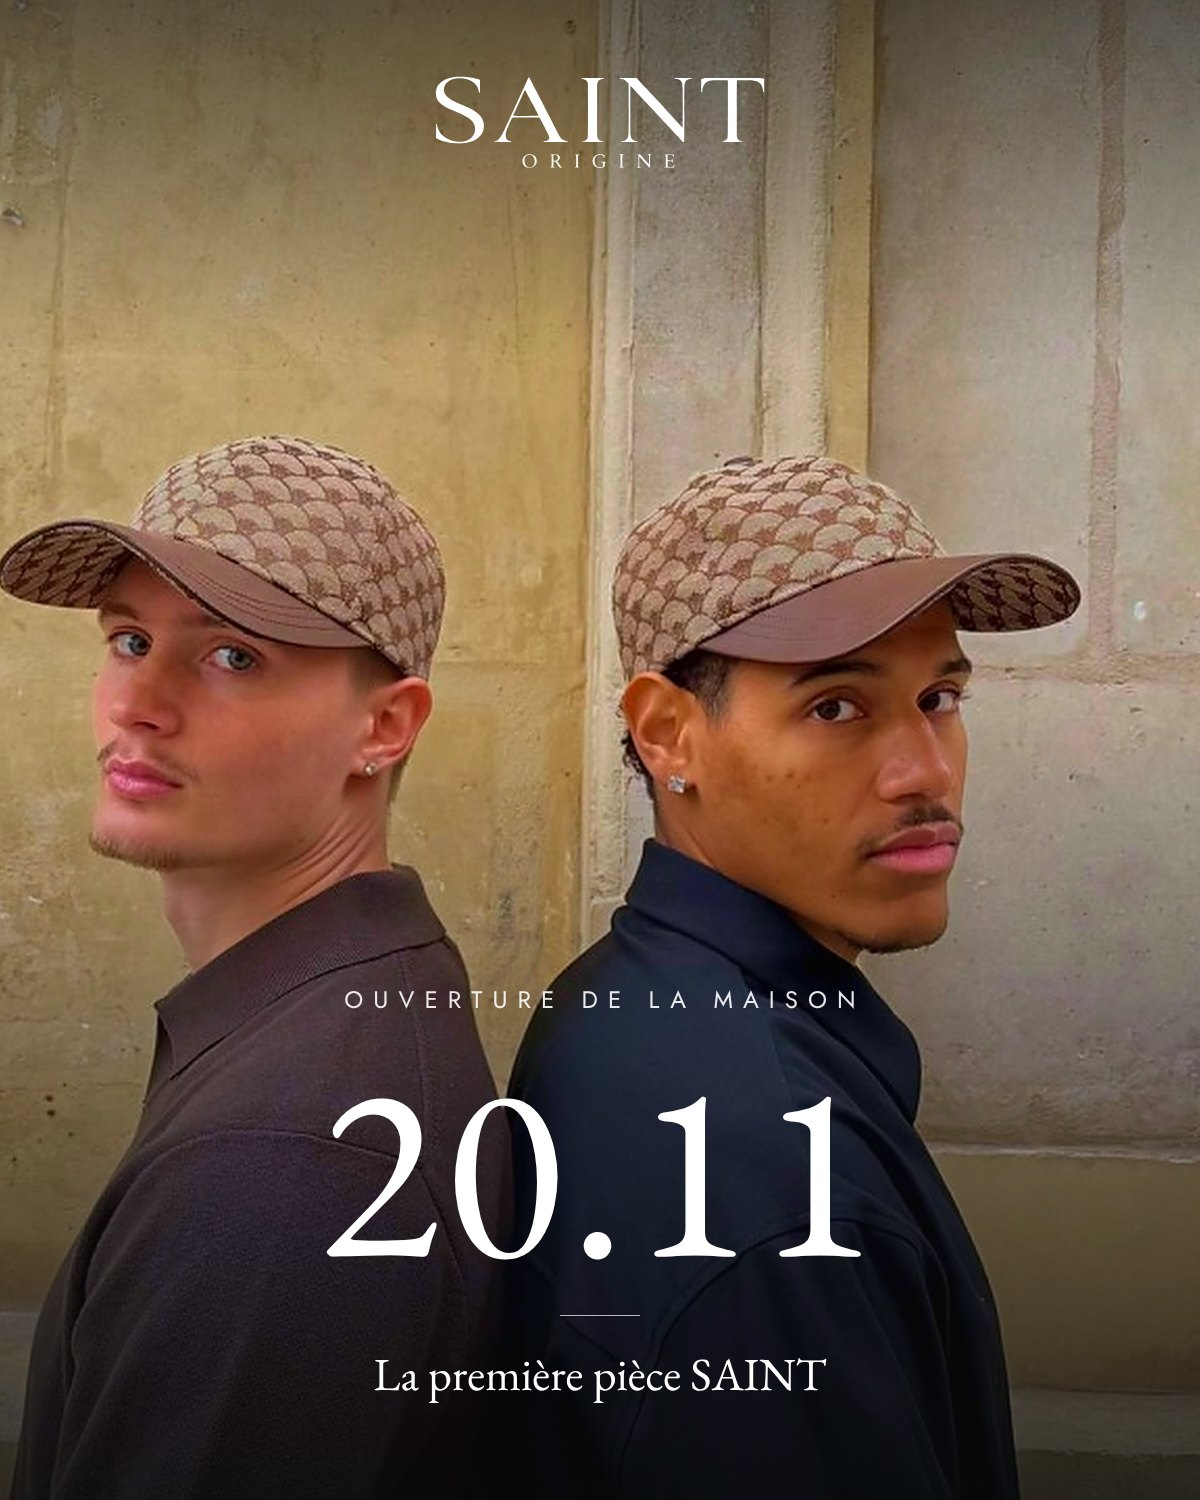
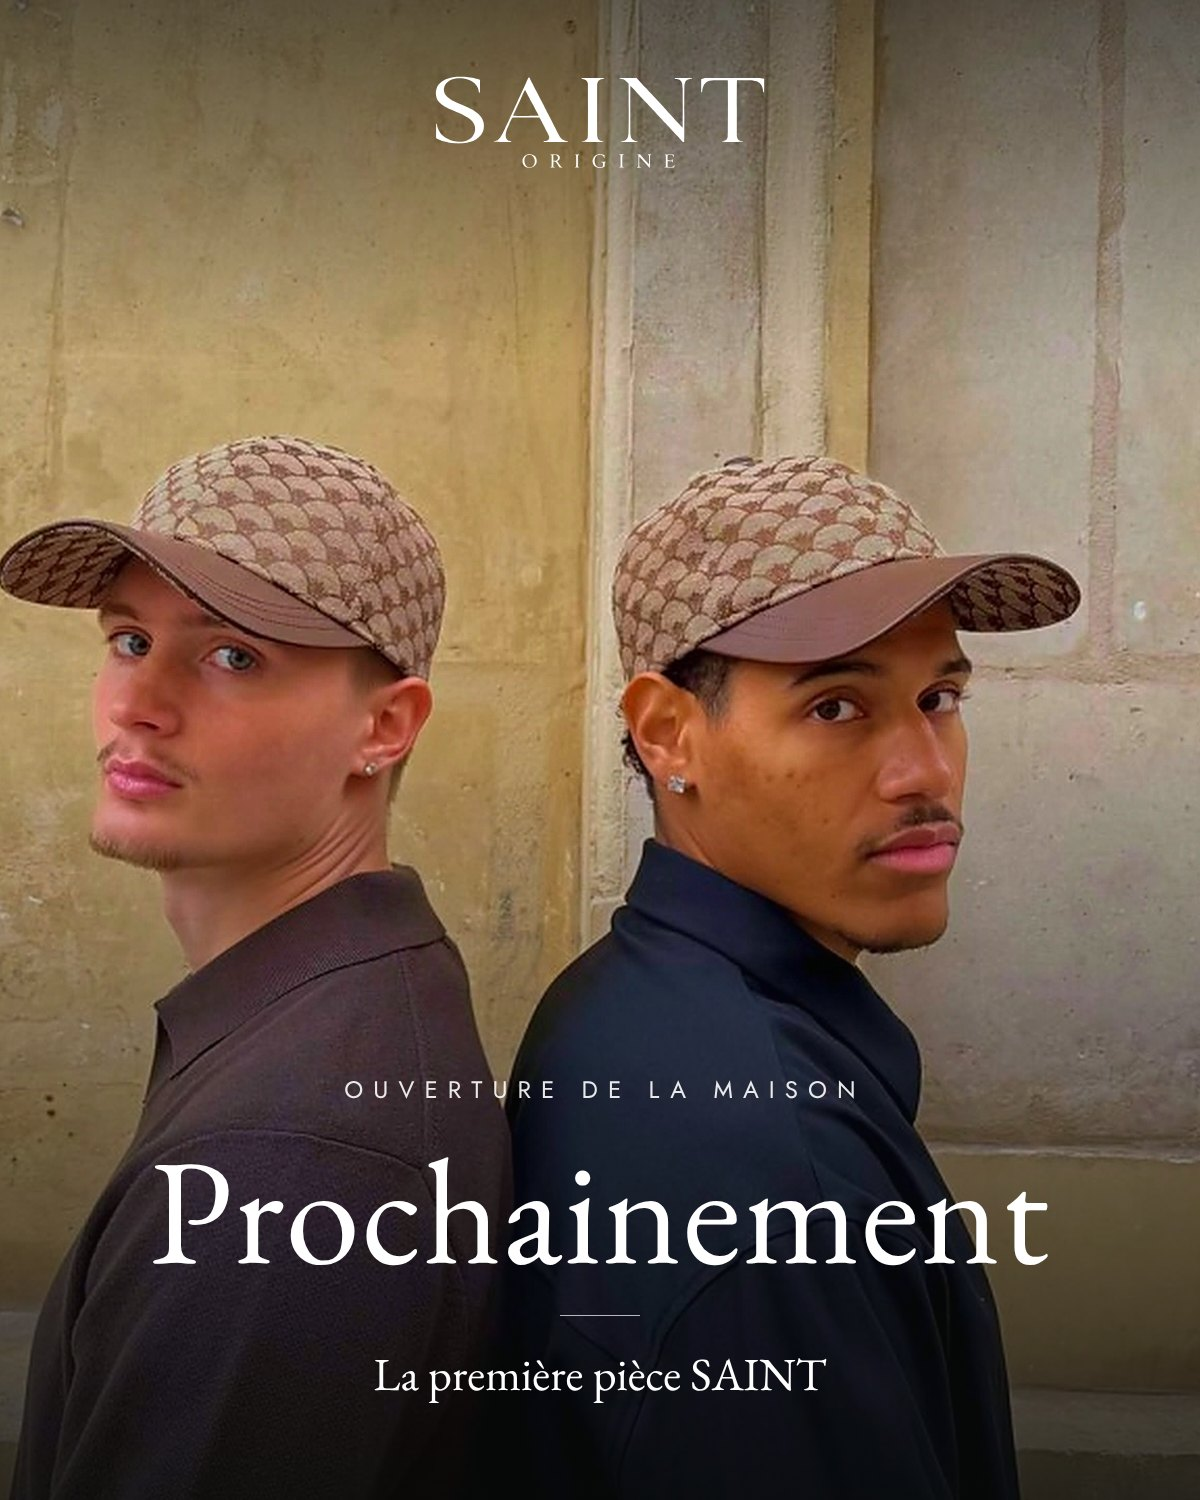
Email: no date (prochainement), limited to 100 pieces at 120 EUR
Claude-Session: https://claude.ai/code/session_01WXdhsVMfy8QTz9YeYXRy3E

diff --git a/email-lancement/email-a-coller.html b/email-lancement/email-a-coller.html
@@ -27,7 +27,7 @@
 
 <!-- Preheader (shown in the inbox preview) -->
 <div style="display:none;max-height:0;overflow:hidden;opacity:0;color:#F3F1EC;font-size:1px;line-height:1px;">
-  Le 20 novembre, la maison SAINT ouvre ses portes. Découvrez la première pièce.&#8199;&#847;&#8199;&#847;&#8199;&#847;&#8199;&#847;&#8199;&#847;&#8199;&#847;&#8199;&#847;
+  Merci pour votre attente. La première pièce SAINT arrive prochainement, en 100 exemplaires seulement.&#8199;&#847;&#8199;&#847;&#8199;&#847;&#8199;&#847;&#8199;&#847;&#8199;&#847;&#8199;&#847;
 </div>
 
 <table role="presentation" width="100%" cellpadding="0" cellspacing="0" border="0" style="background:#F3F1EC;">
@@ -38,7 +38,7 @@
   <!-- Hero: logo + date baked into the image (identical in light and dark mode) -->
   <tr>
     <td>
-      <a href="https://saintorigine.com" target="_blank"><img src="HERO_URL" width="600" alt="SAINT Origine — Ouverture de la maison le 20 novembre. La première pièce SAINT." style="width:100%;max-width:600px;"></a>
+      <a href="https://saintorigine.com" target="_blank"><img src="HERO_URL" width="600" alt="SAINT Origine — Ouverture de la maison, prochainement. La première pièce SAINT." style="width:100%;max-width:600px;"></a>
     </td>
   </tr>
 
@@ -51,18 +51,20 @@
         Vous avez été nombreux à nous écrire, à nous suivre et à vous inscrire pour être prévenus. Cette patience nous touche profondément.
       </p>
       <p style="margin:0;font-family:Helvetica,Arial,sans-serif;font-size:16px;line-height:27px;color:#4A524E;">
-        Nous avons aujourd'hui le plaisir de vous annoncer l'ouverture de notre maison, et l'arrivée de sa toute première pièce&nbsp;: la casquette <strong style="color:#111412;font-weight:normal;">SAINT Éventail</strong>.
+        Nous avons aujourd'hui le plaisir de vous annoncer l'ouverture prochaine de notre maison, et l'arrivée de sa toute première pièce&nbsp;: la casquette <strong style="color:#111412;font-weight:normal;">SAINT Éventail</strong>.
       </p>
     </td>
   </tr>
 
-  <!-- Date -->
+  <!-- Limited edition -->
   <tr>
     <td class="px" align="center" style="padding:40px 64px 48px;">
       <table role="presentation" cellpadding="0" cellspacing="0" border="0" width="100%" style="border-top:1px solid #E4E2DC;border-bottom:1px solid #E4E2DC;">
-        <tr><td align="center" style="padding:30px 0;">
-          <p style="margin:0 0 10px;font-family:Helvetica,Arial,sans-serif;font-size:11px;letter-spacing:3px;text-transform:uppercase;color:#064829;">Disponible en ligne</p>
-          <p class="date" style="margin:0;font-family:Georgia,'Times New Roman',serif;font-size:46px;line-height:52px;color:#111412;">Vendredi 20 novembre</p>
+        <tr><td align="center" style="padding:32px 0;">
+          <p style="margin:0 0 12px;font-family:Helvetica,Arial,sans-serif;font-size:11px;letter-spacing:3px;text-transform:uppercase;color:#064829;">Édition limitée</p>
+          <p class="date" style="margin:0 0 14px;font-family:Georgia,'Times New Roman',serif;font-size:46px;line-height:52px;color:#111412;">100 exemplaires</p>
+          <p style="margin:0 0 6px;font-family:Helvetica,Arial,sans-serif;font-size:15px;line-height:24px;color:#4A524E;">Casquette SAINT Éventail &nbsp;·&nbsp; 120&nbsp;€</p>
+          <p style="margin:0;font-family:Helvetica,Arial,sans-serif;font-size:11px;letter-spacing:3px;text-transform:uppercase;color:#5A6660;">Disponible prochainement</p>
         </td></tr>
       </table>
     </td>
